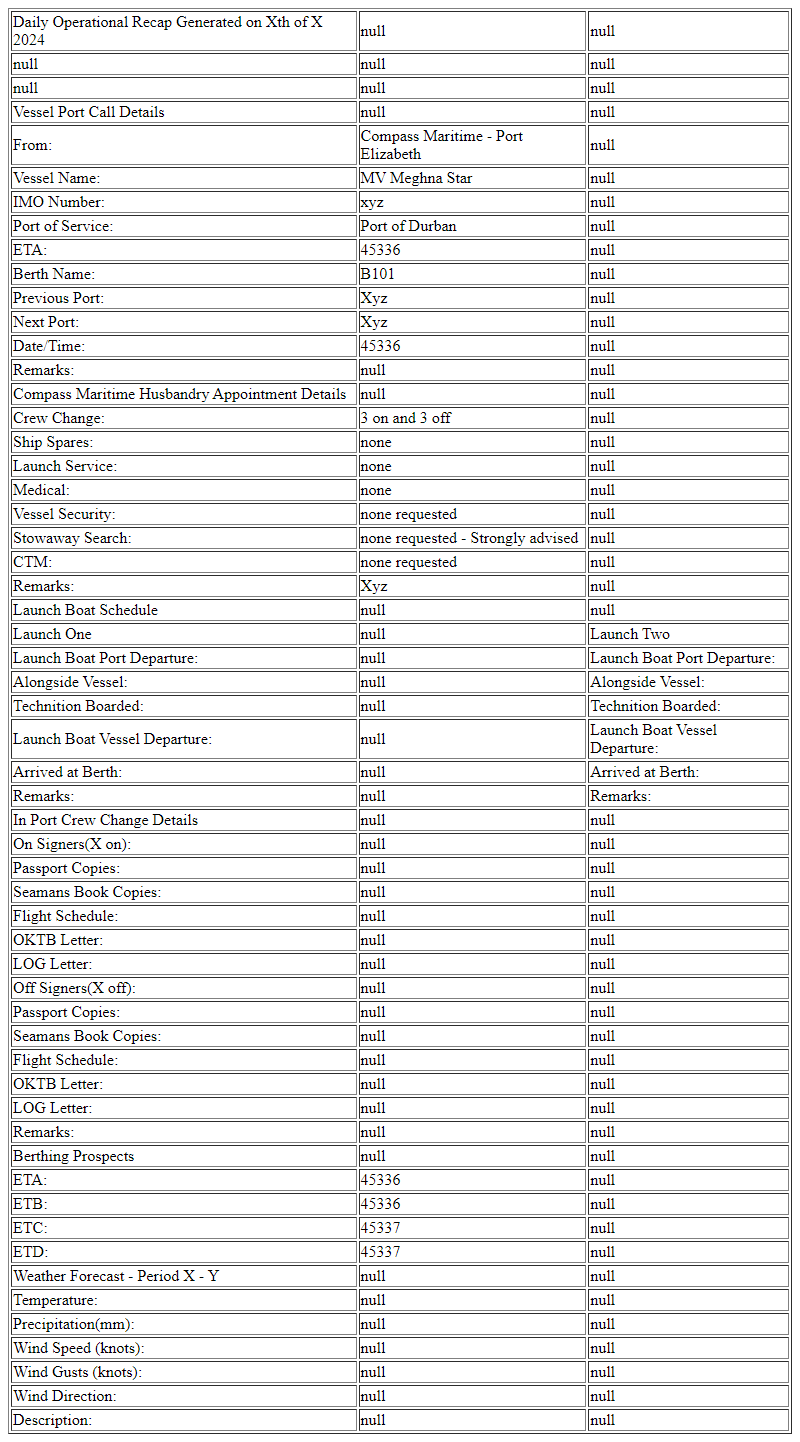
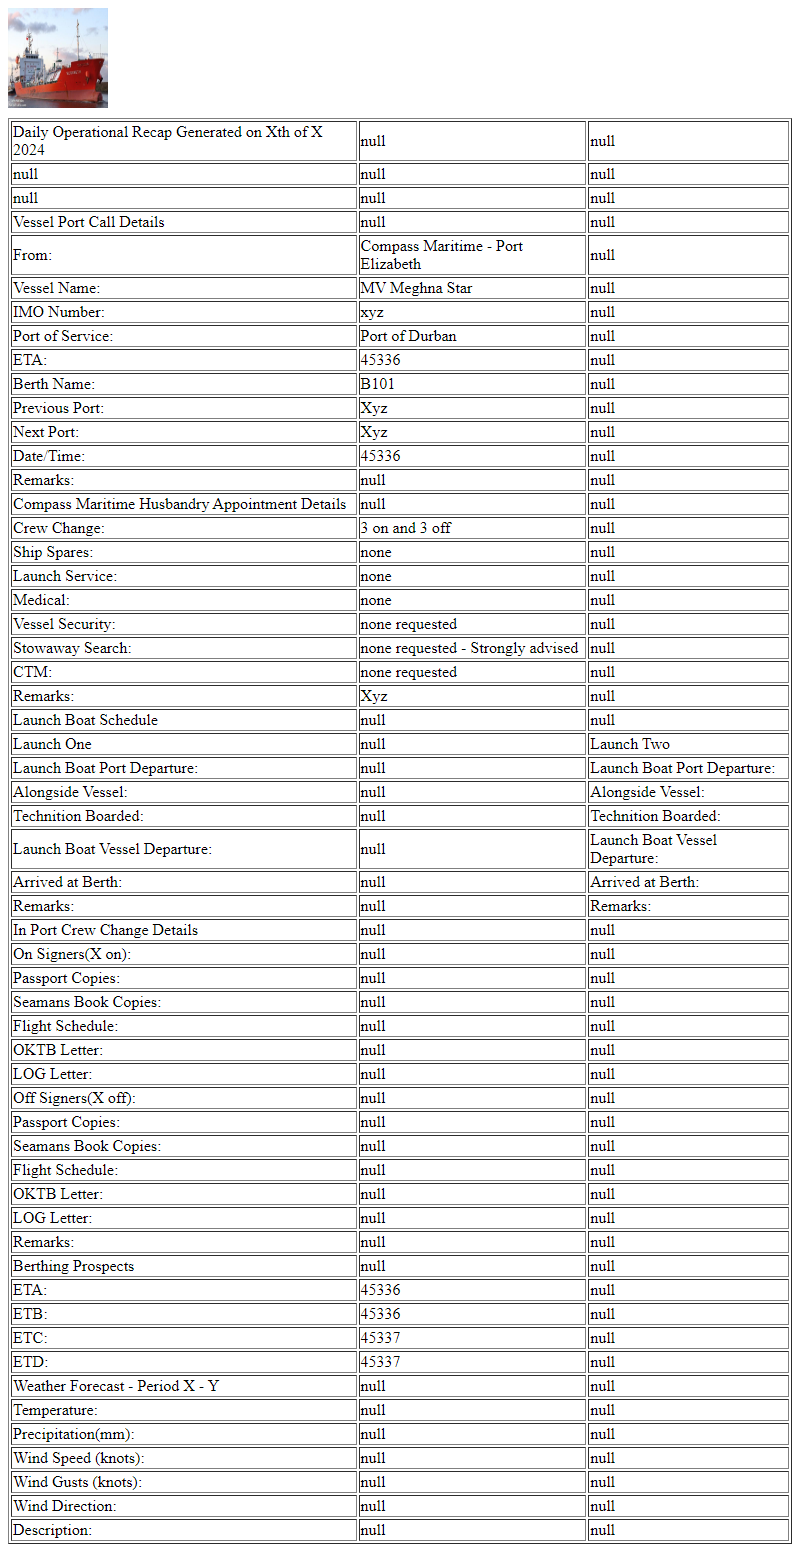
commit 4

Changed region(s): [[0.0, 0.0, 1.0, 0.9986]]

diff --git a/dailyRecapScreenshot2.js b/dailyRecapScreenshot2.js
@@ -1,18 +1,21 @@
 const TelegramBot = require('node-telegram-bot-api');
 const config = require('./config');
 const { GoogleSpreadsheet } = require('google-spreadsheet');
-const { searchVesselImage } = require('./searchVesselImage');
 const puppeteer = require('puppeteer-extra');
 const StealthPlugin = require('puppeteer-extra-plugin-stealth');
 const fs = require('fs');
-
+const { searchVesselImage } = require('./vesselImageSearch');
 
 puppeteer.use(StealthPlugin());
 
 // Load the Google Sheet
-const doc = new GoogleSpreadsheet(config.googleSheetId);
+const doc = new GoogleSpreadsheet(config.googleSheetId2);
 
-const captureAndSendDailyRecapScreenshot = async () => {
+// Define the row and column indices for the IMO number
+const ROW_INDEX = 6; // B7
+const COLUMN_INDEX = 1; // B7
+
+const captureAndSendDailyRecapScreenshot2 = async () => {
   try {
     // Authenticate with Google Sheets API using your existing code
     await doc.useServiceAccountAuth({
@@ -21,69 +24,92 @@ const captureAndSendDailyRecapScreenshot = async () => {
     });
     await doc.loadInfo();
 
-    // Fetch the desired sheet by title or index
-    const sheet = doc.sheetsByIndex[0]; // Assuming it's the first sheet, adjust as needed
-    await sheet.loadCells();
-
-    // Read the IMO number from the corresponding cell
-    const imoCell = sheet.getCell(ROW_INDEX, COLUMN_INDEX); // Replace ROW_INDEX and COLUMN_INDEX with the actual cell coordinates
-    const imoNumber = imoCell.value;
-
-    // Create an HTML table to display the data
-    let htmlContent = '<table border="1">';
-
-    // Iterate over each row and cell in the sheet
-    for (let i = 0; i < sheet.rowCount; i++) {
-      htmlContent += '<tr>';
-      for (let j = 0; j < sheet.columnCount; j++) {
-        const cell = sheet.getCell(i, j);
-        htmlContent += `<td>${cell.value}</td>`;
-      }
-      htmlContent += '</tr>';
-    }
-
-    htmlContent += '</table>';
-
-    // Launch a headless browser
+    // Create a headless browser instance
     const browser = await puppeteer.launch({
       headless: true,
     });
 
-    const page = await browser.newPage();
-
-    // Set the page content with the data table
-    await page.setContent(htmlContent);
-
-    // Capture a screenshot of the content
-    const screenshotPath = './images/daily_recap_screenshot.png';
-    await page.screenshot({ path: screenshotPath, fullPage: true });
-
-    // Search for vessel image based on IMO number
-    const vesselImageURL = await searchVesselImage(imoNumber);
-
-    // Load vessel image and position it on the top right-hand corner
-    if (vesselImageURL) {
-      const imgTag = `<img src="${vesselImageURL}" style="position: absolute; top: 10px; right: 10px; width: 100px; height: auto;">`;
-      await page.setContent(imgTag, { append: true });
-    }
-
-    // Close the browser
-    await browser.close();
-
-    // Send the screenshot to the Telegram group
     const bot = new TelegramBot(config.telegramToken, { polling: false });
 
-    if (fs.existsSync(screenshotPath)) {
-      bot.sendPhoto(config.chatId, fs.readFileSync(screenshotPath));
-      console.log('Daily Recap screenshot sent successfully.');
-    } else {
-      console.error('Screenshot file does not exist.');
+    // Iterate over each sheet in the Google Spreadsheet
+    for (const sheet of doc.sheetsByIndex) {
+      await sheet.loadCells();
+
+      // Read the IMO number from cell B7
+      const imoCell = sheet.getCell(ROW_INDEX, COLUMN_INDEX);
+      const imoNumber = imoCell.value;
+
+      // Create an HTML layout with vessel image above all information
+      let htmlContent = '';
+
+      // Search for vessel image based on IMO number
+      const vesselImageURL = await searchVesselImage(imoNumber);
+
+      // Add vessel image if available
+      if (vesselImageURL) {
+        // Define the desired width and height for the vessel image
+        const imageSize = '100px'; // Adjust as needed
+
+        // Add the vessel image with specified size and margin
+        htmlContent += `<img src="${vesselImageURL}" style="width: ${imageSize}; height: ${imageSize}; margin-bottom: 10px;">`;
+      }
+
+      // Create an HTML table to display the data
+      htmlContent += '<table border="1">';
+
+      // Find the last row and column with data
+      let lastRow = 0;
+      let lastCol = 0;
+      for (let i = 0; i < sheet.rowCount; i++) {
+        for (let j = 0; j < sheet.columnCount; j++) {
+          const cell = sheet.getCell(i, j);
+          if (cell.value !== null && cell.value !== '') {
+            lastRow = Math.max(lastRow, i);
+            lastCol = Math.max(lastCol, j);
+          }
+        }
+      }
+
+      // Iterate over each row and cell up to the last row and column with data
+      for (let i = 0; i <= lastRow; i++) {
+        htmlContent += '<tr>';
+        for (let j = 0; j <= lastCol; j++) {
+          const cell = sheet.getCell(i, j);
+          htmlContent += `<td>${cell.value}</td>`;
+        }
+        htmlContent += '</tr>';
+      }
+
+      htmlContent += '</table>';
+
+      const page = await browser.newPage();
+
+      // Set the page content with the data table
+      await page.setContent(htmlContent);
+
+      // Capture a screenshot of the content
+      const screenshotPath = `./images/sheet_${sheet.title}_screenshot.png`;
+      await page.screenshot({ path: screenshotPath, fullPage: true });
+
+      // Send the screenshot to the Telegram group
+      if (fs.existsSync(screenshotPath)) {
+        bot.sendPhoto(config.chatId, fs.readFileSync(screenshotPath));
+        console.log(`Daily Recap screenshot for ${sheet.title} sent successfully.`);
+      } else {
+        console.error(`Screenshot file for ${sheet.title} does not exist.`);
+      }
+
+      // Close the page after processing
+      await page.close();
     }
+
+    // Close the browser after processing all sheets
+    await browser.close();
   } catch (error) {
-    console.error('Error capturing and sending Daily Recap screenshot:', error);
+    console.error('Error capturing and sending Daily Recap screenshots:', error);
   }
 };
 
 module.exports = {
-  captureAndSendDailyRecapScreenshot,
+  captureAndSendDailyRecapScreenshot2,
 };

diff --git a/bot3.js b/bot3.js
@@ -1,8 +1,9 @@
 const TelegramBot = require('node-telegram-bot-api');
 const config = require('./config');
-const { captureAndSendGoogleSheetScreenshot2 } = require('./dailyRecapScreenshot');
+const { captureAndSendDailyRecapScreenshot2 } = require('./dailyRecapScreenshot2');
 const { captureAndSendGoogleSheetScreenshot } = require('./scheduleScreenshot');
 const { readAllTrips } = require('./readAllTrips');
+const { sendContactsToTelegram } = require('./contacts');
 
 // Create a new Telegram bot instance
 const bot = new TelegramBot(config.telegramToken, { polling: true });
@@ -98,7 +99,7 @@ bot.on('callback_query', async (callbackQuery) => {
       break;
     case 'capturesheet':
       // Call the function to capture and send Google Sheet screenshots
-      captureAndSendGoogleSheetScreenshot2(bot, targetGroupChatId);
+      captureAndSendDailyRecapScreenshot2(bot, targetGroupChatId);
       break;
     default:
       console.log('Invalid action:', action);

diff --git a/bot4.js b/bot4.js
@@ -3,7 +3,7 @@ const config = require('./config');
 const { captureAndSendGoogleSheetScreenshot2 } = require('./dailyRecapScreenshot');
 const { captureAndSendGoogleSheetScreenshot } = require('./scheduleScreenshot');
 const { captureAndSendDailyRecapScreenshot } = require('./dailyRecapScreenshot2'); // Import the new function
-
+const { sendContactsToTelegram } = require('./contacts');
 
 // Create a new Telegram bot instance
 const bot = new TelegramBot(config.telegramToken, { polling: true });

diff --git a/contacts.js b/contacts.js
@@ -3,7 +3,7 @@ const TelegramBot = require('node-telegram-bot-api');
 const config = require('./config');
 
 // Initialize Telegram Bot
-const bot = new TelegramBot(config.telegramToken, { username: 'CompassG_bot', polling: true });
+const bot = new TelegramBot(config.telegramToken, { username: 'CompassG_bot', polling: false });
 
 // Define the target group chat ID
 const targetGroupChatId = '-1002128280650';
